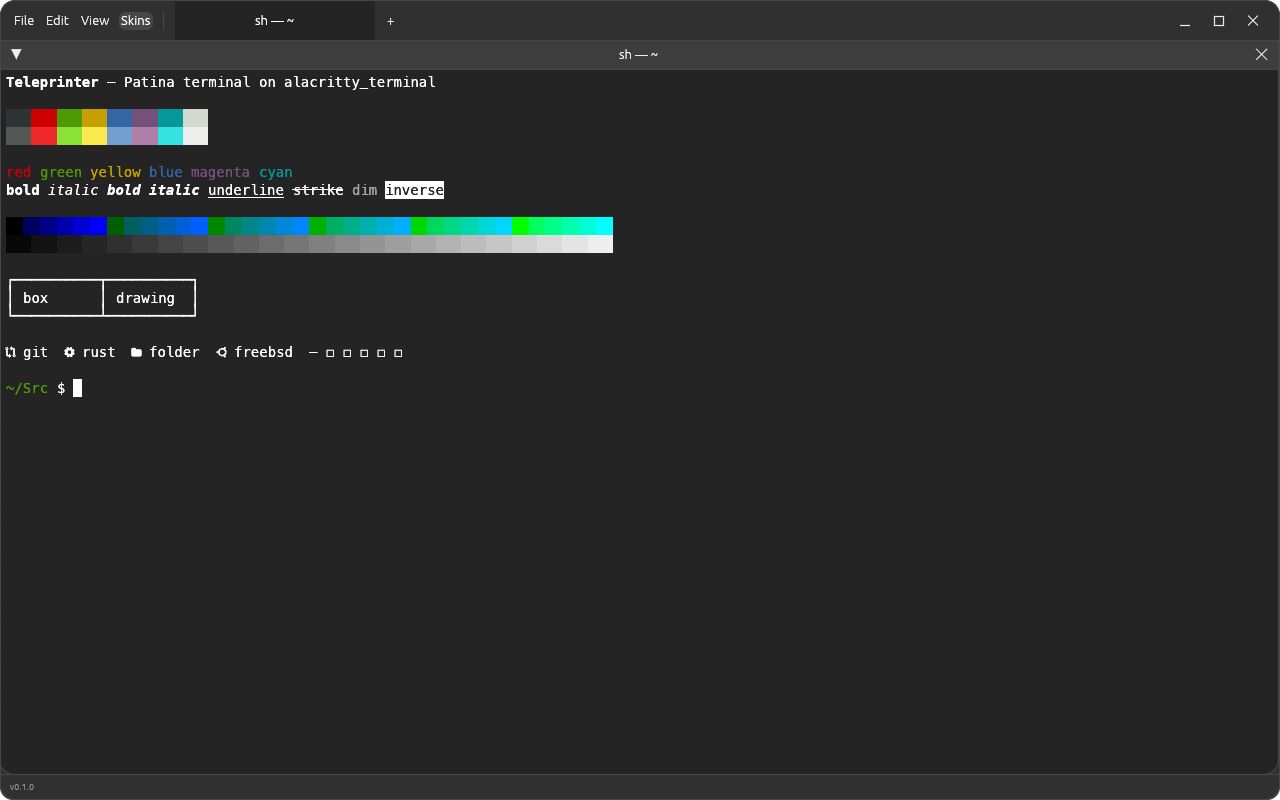
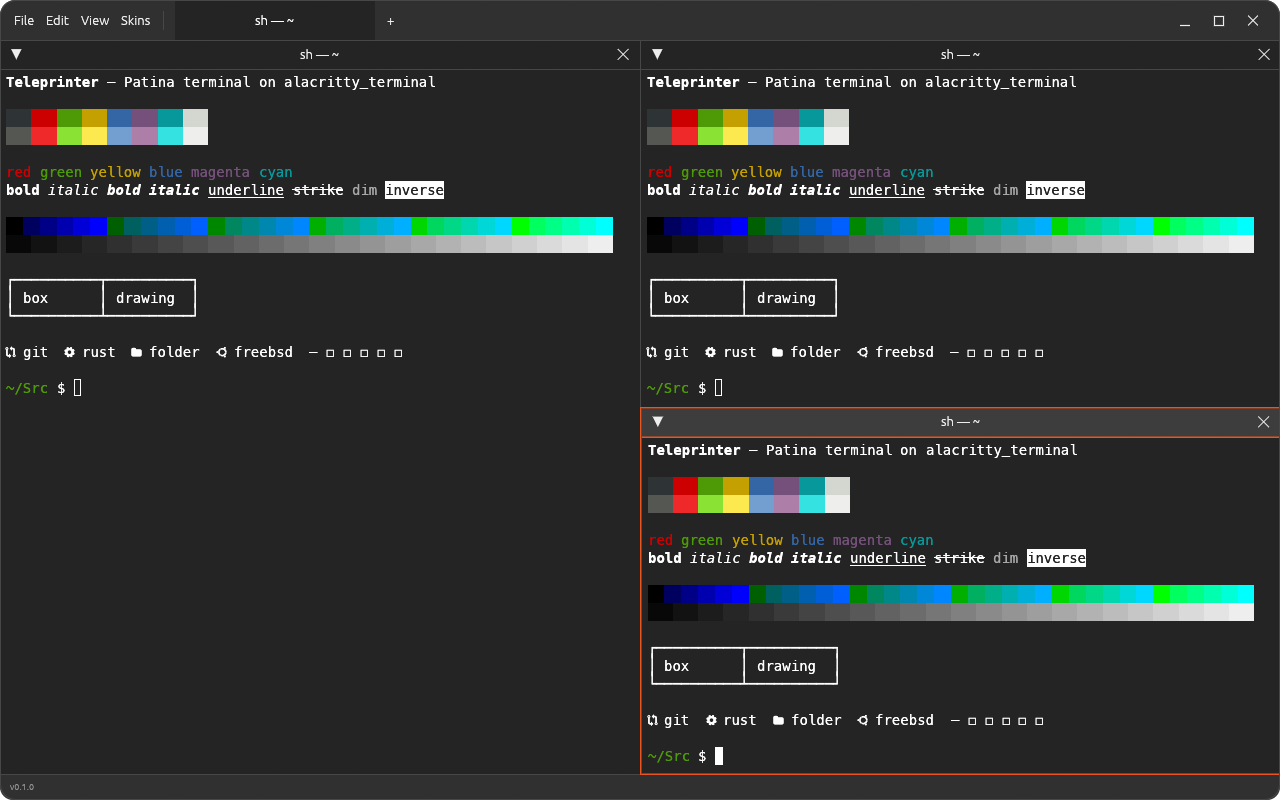
Touching panes are square: the status bar holds the window's bottom corners

diff --git a/src/app.rs b/src/app.rs
@@ -102,8 +102,6 @@ pub struct App {
     title_height: f32,
     /// Where each pane of the shown tab was last laid out, for placing a new one in empty space.
     tiles: Vec<(PaneId, Rect)>,
-    /// The window's corner radius this frame (0 maximised), for panes in its bottom corners.
-    radius: u8,
     /// Where the background was right-clicked, for its menu.
     menu_at: Option<egui::Pos2>,
     /// `TELEPRINTER_COMMAND`, run in every pane instead of the login shell.
@@ -147,7 +145,6 @@ impl App {
             hovering: None,
             tiles: Vec::new(),
             menu_at: None,
-            radius: 0,
             title_height: 34.0,
             command,
             requests: Requests { focus: true, ..Default::default() },
@@ -851,28 +848,20 @@ impl App {
         {
             self.activate(open);
         }
-        // Touching, panes are square, but for the window's own rounded bottom corners.
-        let gap = self.gap();
-        let rounded = egui::Frame::window(&ctx.global_style()).corner_radius;
+        // Touching, panes are square: the status bar below holds the window's rounded bottom
+        // corners.
+        let corners = if self.gap() > 0.0 {
+            egui::Frame::window(&ctx.global_style()).corner_radius
+        } else {
+            egui::CornerRadius::ZERO
+        };
         for (id, rect) in &tiles {
-            let corners = if gap > 0.0 {
-                rounded
-            } else {
-                let touch = |a: f32, b: f32| (a - b).abs() < 0.5;
-                let bottom = touch(rect.bottom(), area.bottom());
-                let corner = |side: f32, edge: f32| if bottom && touch(side, edge) { self.radius } else { 0 };
-                egui::CornerRadius {
-                    sw: corner(rect.left(), area.left()),
-                    se: corner(rect.right(), area.right()),
-                    ..Default::default()
-                }
-            };
             if let Some((strip, layer)) = self.show_pane(ctx, *id, *rect, corners, palette, actions) {
                 self.drag_handle(ctx, *id, strip, layer, actions);
             }
         }
         // Overlapping, the active pane is drawn last, so its accent border is whole.
-        if gap == 0.0 {
+        if self.gap() == 0.0 {
             ctx.move_to_top(egui::LayerId::new(egui::Order::Middle, pane_id(self.active())));
         }
         for divider in &dividers {
@@ -923,7 +912,6 @@ impl eframe::App for App {
         let style = self.skin().frame_style(ui.visuals());
         let (palette, problems) = Palette::new(self.skin(), ui.visuals());
         let radius = if self.custom_frame { frame::corner_radius(&ctx, style.radius) } else { 0 };
-        self.radius = radius;
 
         self.answer_calls(&ctx);
         let mut exited = Vec::new();
@@ -1195,7 +1183,6 @@ mod tests {
             hovering: None,
             tiles: Vec::new(),
             menu_at: None,
-            radius: 0,
             title_height: 34.0,
             command: None,
             requests: Requests::default(),
